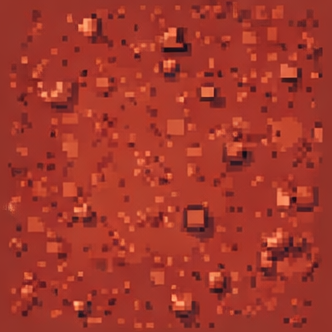
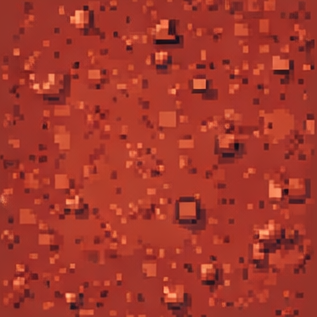
képek és map ból a vízszintes csík kitörlése

diff --git a/PSZK-MarsRoverProject/MainWindow.xaml.cs b/PSZK-MarsRoverProject/MainWindow.xaml.cs
@@ -30,7 +30,7 @@ namespace PSZK_MarsRoverProject
         public MainWindow()
         {
             InitializeComponent();
-            groundImage = new BitmapImage(new Uri("pack://application:,,,/Images/kep3.png"));
+            groundImage = new BitmapImage(new Uri("pack://application:,,,/Images/kep11.png"));
             obstacleImage = new BitmapImage(new Uri("pack://application:,,,/Images/obstacle2.png"));
             gemimage = new BitmapImage(new Uri("pack://application:,,,/Images/gem.png"));
             CsvBeolvaso();
@@ -48,7 +48,8 @@ namespace PSZK_MarsRoverProject
                     Image talaj = new Image() 
                     { 
                         Width = tileMeret, 
-                        Height = tileMeret
+                        Height = tileMeret,
+                        SnapsToDevicePixels = true
                     };
                     string jel = terkep[i, j] == "R" ? "." : terkep[i, j];
                     talaj.Source = GetImageSource(jel);
